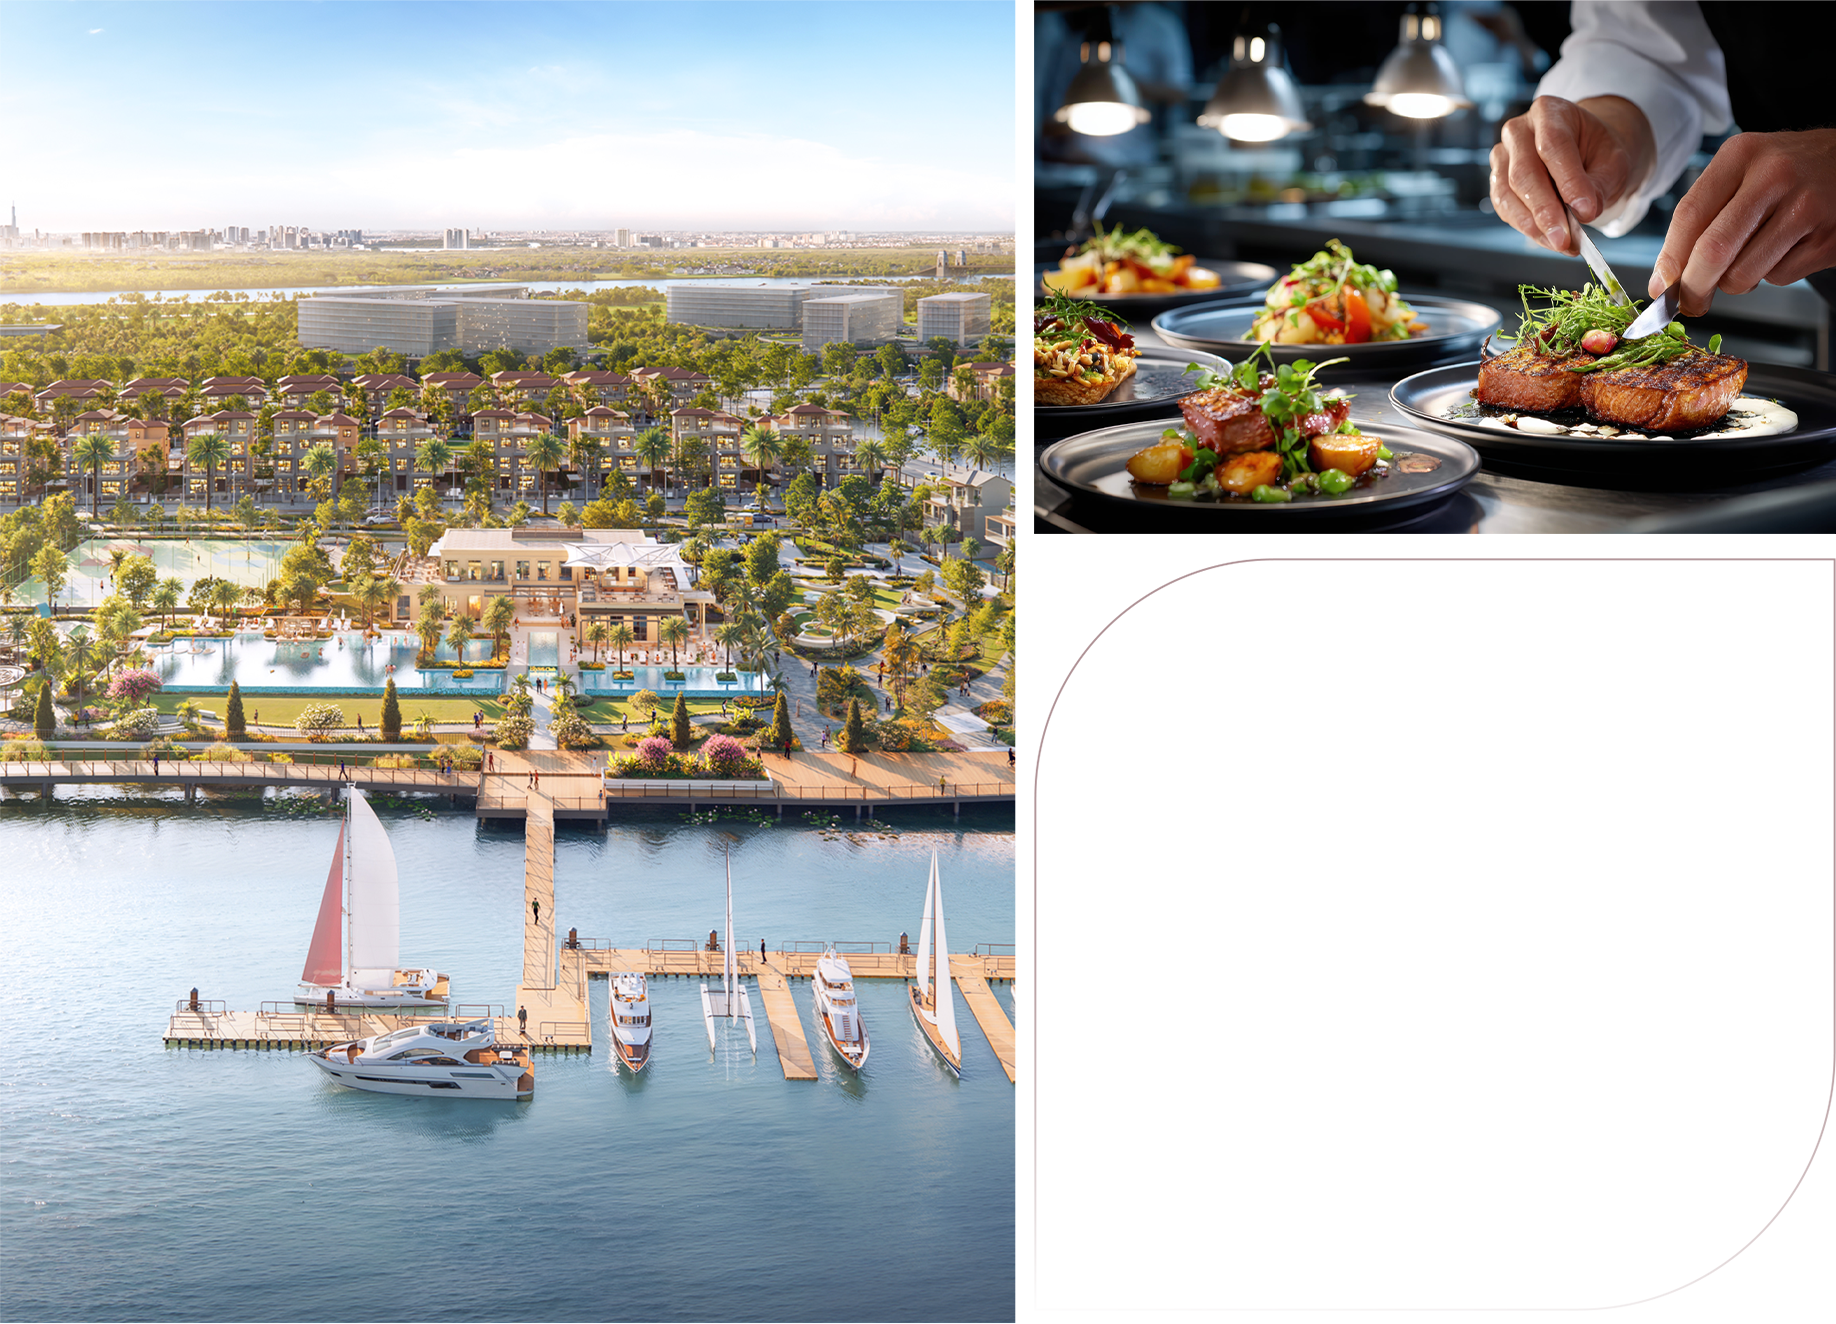
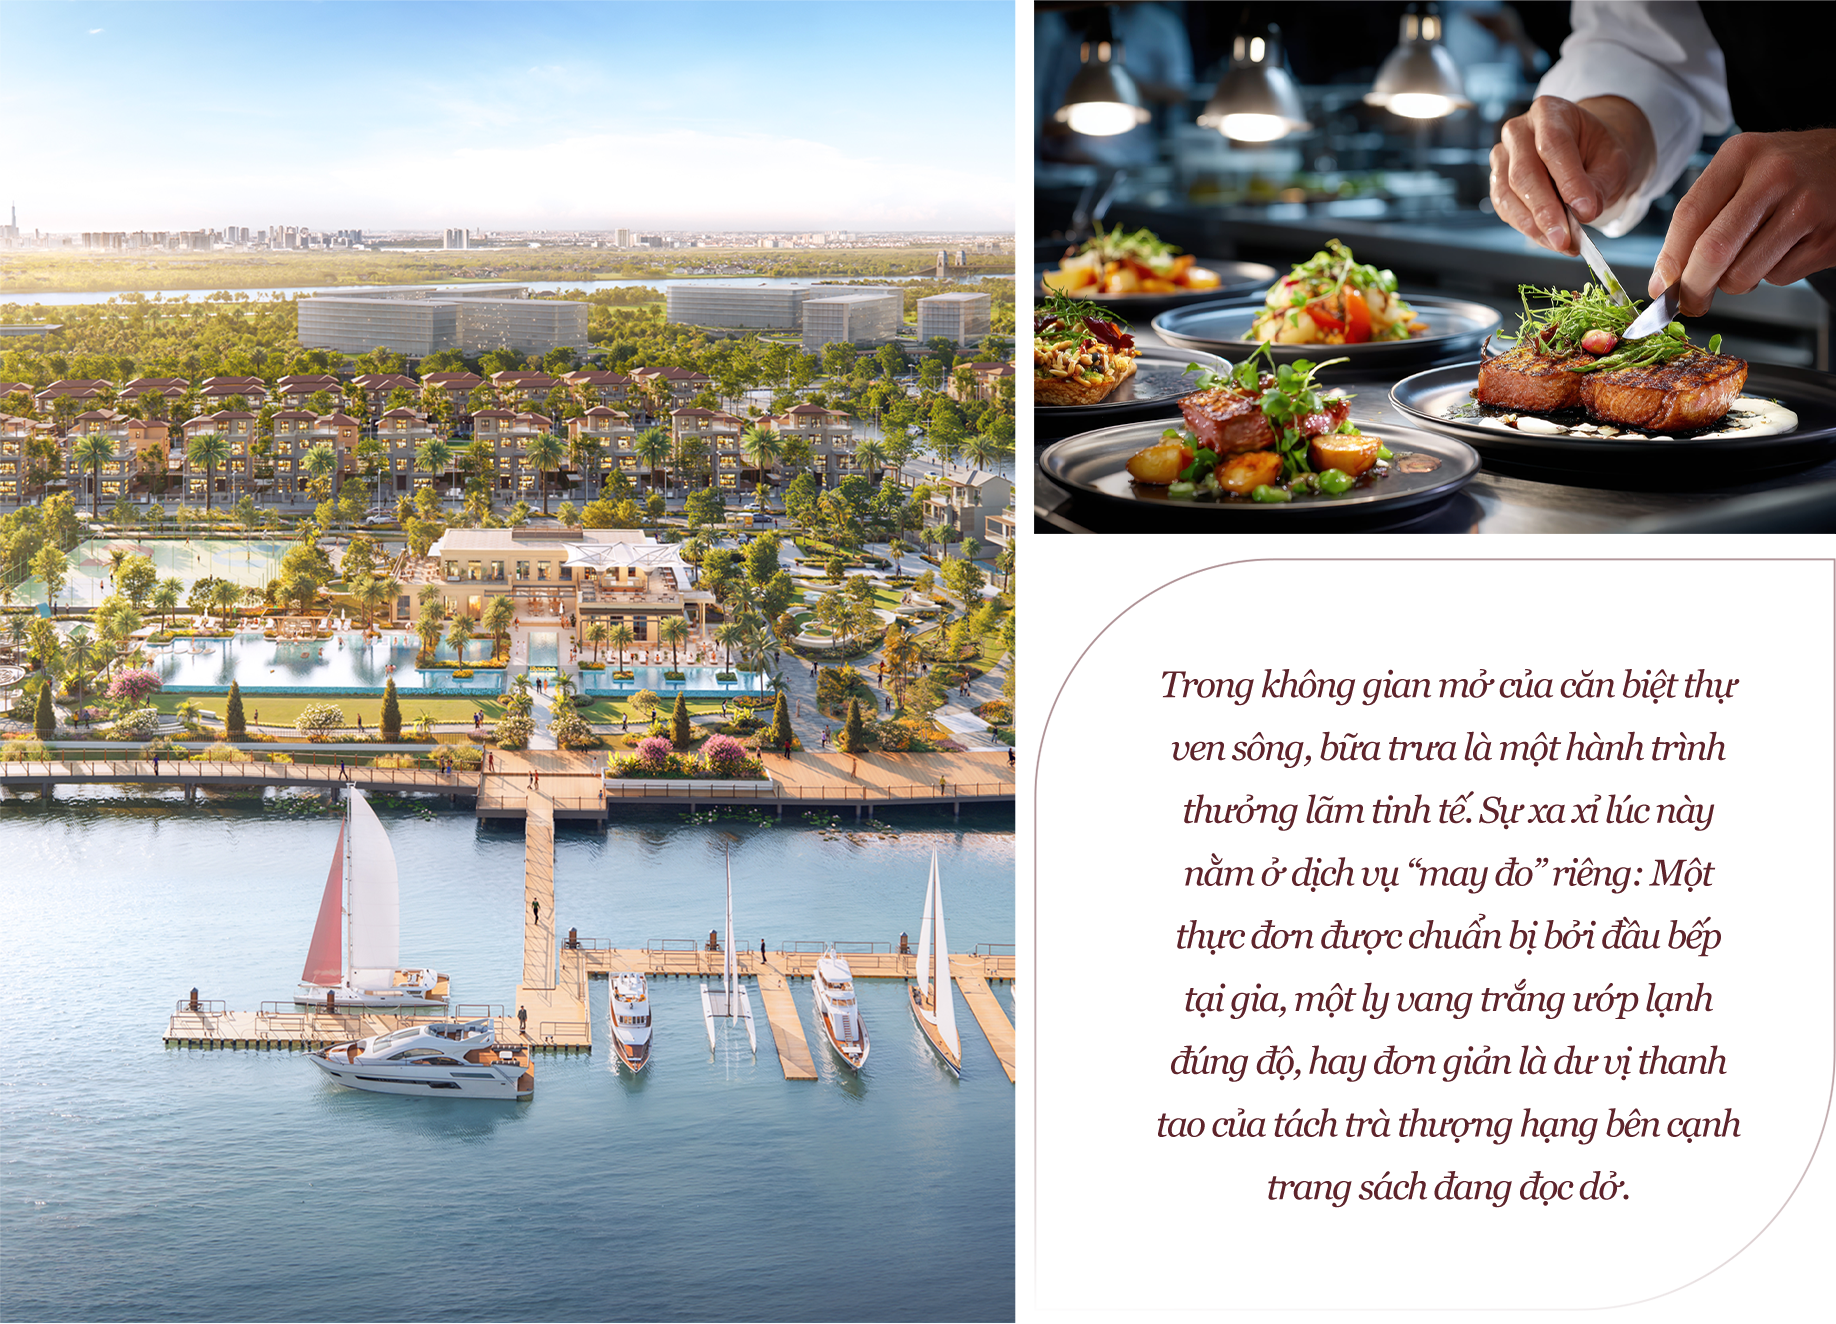
fixed

diff --git a/Elyse/index.html b/Elyse/index.html
@@ -41,7 +41,7 @@
                 <h2 class="section-title heading-serif ">Bình minh</h2>
                 <div class="divider"><span class="divider-line"></span><span class="diamond-icon"></span><span
                         class="divider-line"></span></div>
-                <span class="section-subtitle">Bản giao hưởng của sự tỉnh thức nguyên bản</span>
+                <span class="section-subtitle">Bản giao hưởng<br>của sự tỉnh thức nguyên bản</span>
                 <p>Nếu ngày mới nơi đô thị thường được bắt đầu trong guồng quay vội vã, thì tại Elyse Island, dự án
                     tinh tuyển 45ha trên ốc đảo tự nhiên Đại Phước (Nhơn Trạch, Đồng Nai), ngày mới được đánh thức
                     bằng một nghi thức lộng lẫy của ánh sáng và sự tĩnh lặng.</p>
@@ -57,11 +57,11 @@
 
         <div class="overlap-container reveal">
             <div class="overlap-grid-overlay">
-                <div class="overlap-text overlap-text-1">
+                <!-- <div class="overlap-text overlap-text-1">
                     Trong khoảnh khắc ấy, những chiếc “áo giáp” của danh vọng, những chức danh chủ tịch hay doanh nhân
                     lừng
                     lẫy trên thương trường dường như trở nên chật chội và được nhẹ nhàng cởi bỏ lại phía sau.
-                </div>
+                </div> -->
             </div>
             <div class="overlap-image stagger-1">
                 <img src="Assets/IMAGE/2.png" alt="Bình minh tại Elyse Island">
@@ -93,7 +93,7 @@
                 <h2 class="section-title heading-serif ">Buổi trưa</h2>
                 <div class="divider"><span class="divider-line"></span><span class="diamond-icon"></span><span
                         class="divider-line"></span></div>
-                <span class="section-subtitle">NGHỆ THUẬT CỦA SỰ NHÀN RỖI VÀ NHỮNG CUỘC HỘI NGỘ TRI KỶ</span>
+                <span class="section-subtitle">NGHỆ THUẬT CỦA SỰ NHÀN RỖI<br> VÀ NHỮNG CUỘC HỘI NGỘ TRI KỶ</span>
                 <p>Khi mặt trời lên đến đỉnh điểm của sự rực rỡ, Elyse Island không hề chói chang mà dịu dàng chan
                     hoà dưới những tán cây xanh mướt. Đây là thời khắc hoàn hảo để thực hành triết lý Otium mà người
                     La Mã cổ đại hằng tôn sùng, một khoảng thời gian nhàn rỗi đầy trí tuệ, nơi con người tạm gác lại
@@ -110,12 +110,12 @@
         </section>
         <div class="overlap-container reveal">
             <div class="overlap-grid-overlay">
-                <div class="overlap-text overlap-text-2">
+                <!-- <div class="overlap-text overlap-text-2">
                     Trong không gian mở của căn biệt thự ven sông, bữa trưa là một hành trình thưởng lãm tinh tế. Sự
                     xa xỉ lúc này nằm ở dịch vụ “may đo” riêng: Một thực đơn được chuẩn bị bởi đầu bếp tại gia, một
                     ly vang trắng ướp lạnh đúng độ, hay đơn giản là dư vị thanh tao của tách trà thượng hạng bên
                     cạnh trang sách đang đọc dở.
-                </div>
+                </div> -->
             </div>
             <div class="overlap-image stagger-1">
                 <img src="Assets/IMAGE/3.png" alt="Hoàng hôn huyền ảo">
@@ -144,7 +144,7 @@
                 <h2 class="section-title heading-serif">Hoàng hôn</h2>
                 <div class="divider"><span class="divider-line"></span><span class="diamond-icon"></span><span
                         class="divider-line"></span></div>
-                <span class="section-subtitle">Giây phút vỗ về giúp tìm lại sự cân bằng bản sơ</span>
+                <span class="section-subtitle">Giây phút vỗ về giúp tìm lại<br> sự cân bằng bản sơ</span>
                 <p>Khi ráng chiều bắt đầu buông lớp voan mỏng màu hổ phách xuống mặt sông, không gian chuyển mình
                     dịu dàng ôm lấy hòn đảo. Thế giới ồn ào ngoài kia lùi xa, nhường chỗ cho những cảm xúc riêng tư
                     nhất. Cơ thể bạn, sau một ngày dài, khẽ nhắc nhở về một khoảnh khắc được thả lỏng và vỗ về trọn
@@ -160,12 +160,12 @@
         </section>
         <div class="overlap-container reveal">
             <div class="overlap-grid-overlay">
-                <div class="overlap-text overlap-text-3">
+                <!-- <div class="overlap-text overlap-text-3">
                     Rời khỏi tư gia, bạn tìm về khu vực tổ hợp Onsen & Ganbanyoku độc đáo từ Nhật Bản để làn da chạm vào
                     dòng nước khoáng nóng và lắng nghe chính mình. Đây là lúc câu chuyện của hàng ngàn năm lịch sử được
                     kể
                     lại trên chính cơ thể bạn.
-                </div>
+                </div> -->
             </div>
             <div class="overlap-image stagger-1">
                 <img src="Assets/IMAGE/4.png" alt="Hoàng hôn huyền ảo">
@@ -196,34 +196,35 @@
                 <h2 class="section-title heading-serif">Buổi tối</h2>
                 <div class="divider"><span class="divider-line"></span><span class="diamond-icon"></span><span
                         class="divider-line"></span></div>
-                <span class="section-subtitle">Khi ánh sáng tinh thần soi chiếu những giá trị trường tồn</span>
+                <span class="section-subtitle">Khi ánh sáng tinh thần soi chiếu<br> những giá trị trường tồn</span>
                 <p>Khi đêm xuống, Elyse Island không chọn cách rực rỡ phô trương như phố thị, mà khoác lên mình vẻ
                     đẹp lấp lánh của một dải ngân hà trên sông. Đây là lúc không gian được trả về cho những gì
                     thiêng liêng nhất: Tổ ấm.</p>
+                <p>Đây là khoảnh khắc ba thế hệ tìm thấy sự kết nối sâu sắc. Ông bà thảnh thơi ngồi thưởng trà bên hiên
+                    nhà, ngắm nhìn những đứa cháu vô tư chạy nhảy trên thảm cỏ xanh mướt của công viên nội khu được đảm
+                    bảo an toàn tuyệt đối nhờ hệ thống an ninh đa lớp. Cha mẹ tạm gác lại những thiết bị công nghệ để
+                    cùng nhau chuẩn bị bữa tối, tiếng ly pha lê chạm nhẹ hòa cùng tiếng cười nói giòn tan.</p>
             </div>
 
         </section>
         <div class="overlap-container reveal">
             <div class="overlap-grid-overlay">
-                <div class="overlap-text overlap-text-4">
+                <!-- <div class="overlap-text overlap-text-4">
                     Dưới bầu trời quang đãng, nơi những vì sao không còn bị ánh đèn đô thị che khuất, những căn biệt thự
                     ven
                     sông bừng sáng ấm áp. Tại khoảng sân vườn rộng rãi nối liền với công viên bờ sông, mùi hương nồng
                     nàn
                     của những bữa tiệc BBQ ngoài trời quyện vào gió mát, đánh thức khứu giác về một sự sum vầy viên mãn.
-                </div>
+                </div> -->
             </div>
-            <div class="overlap-image stagger-1">
+            <div class="overlap-image stagger-1 night-img">
                 <img src="Assets/IMAGE/6.png" alt="Buổi tối lung linh">
             </div>
         </div>
 
         <section class="container reveal">
             <div class="text-block night">
-                <p>Đây là khoảnh khắc ba thế hệ tìm thấy sự kết nối sâu sắc. Ông bà thảnh thơi ngồi thưởng trà bên hiên
-                    nhà, ngắm nhìn những đứa cháu vô tư chạy nhảy trên thảm cỏ xanh mướt của công viên nội khu được đảm
-                    bảo an toàn tuyệt đối nhờ hệ thống an ninh đa lớp. Cha mẹ tạm gác lại những thiết bị công nghệ để
-                    cùng nhau chuẩn bị bữa tối, tiếng ly pha lê chạm nhẹ hòa cùng tiếng cười nói giòn tan.</p>
+
 
                 <p>Không cần đi đâu xa, ngay tại bến du thuyền rực sáng phía xa, những tiện ích đẳng cấp vẫn hiện hữu
                     như một phông nền hoàn hảo cho cuộc sống tiện nghi. Nhưng trên hết, buổi tối tại Elyse Island là lúc

diff --git a/Elyse/style.css b/Elyse/style.css
@@ -76,7 +76,7 @@
   --fs-h3: clamp(1.3rem, 4vw, 4rem);
   --fs-body: clamp(1rem, 1.25vw + 0.4rem, 1.15rem);
   --fs-caption: 1rem;
-  --fs-intro: clamp(1rem, 1.25vw + 0.4rem, 1.15rem);
+  --fs-intro: clamp(1.15rem, 1.4vw + 0.4rem, 1.3rem);
 
   --container-width-hero: clamp(10%, 85%, 950px);
   --container-width: clamp(10%, 80%, 870px);
@@ -116,31 +116,24 @@ body {
 .hero {
   width: 100vw;
   position: relative;
-  overflow: hidden;
-  background-color: var(--bg-grad-start);
+  /* background-color: var(--bg-grad-start); */
+  height: auto;
 }
 
 .hero img {
   width: 100%;
-  object-fit: contain;
+  height: 100%;
+  display: block;
+  object-fit: cover;
+  object-position: top;
 }
 
-.hero::after {
-  content: "";
-  position: absolute;
-  bottom: 0;
-  left: 0;
-  width: 100%;
-  height: 25%;
-  background: linear-gradient(to bottom,
-      rgba(175, 227, 248, 0) 0%,
-      rgba(175, 227, 248, 0.9) 100%);
-  z-index: 2;
-}
 
 .hero-content {
   position: relative;
+  padding-bottom: 2rem;
 }
+
 
 h1,
 h2,
@@ -191,6 +184,7 @@ p {
   font-size: var(--fs-h1);
   font-weight: 500;
   margin-bottom: -1.5rem;
+  word-spacing: -0.15em;
 
 }
 
@@ -333,13 +327,6 @@ section {
   position: relative;
 }
 
-.hero {
-  height: 100vh;
-  width: 100vw;
-  position: relative;
-  overflow: hidden;
-}
-
 .body-text {
   max-width: var(--container-width);
   margin: 0 auto;
@@ -377,60 +364,10 @@ section {
   pointer-events: none;
 }
 
-.overlap-text {
-  z-index: 2;
-  font-family: var(--font-serif);
-  font-style: italic;
 
-  font-size: clamp(6px, 2.2vw, 2.4rem);
-  color: #333;
-  line-height: 1.5;
-  letter-spacing: normal;
-  pointer-events: none;
-  text-align: center;
-  display: flex;
-  flex-direction: column;
-  justify-content: center;
-
-  opacity: 0;
-  transition: opacity var(--transition-med);
-}
-
-.reveal.active .overlap-text {
-  opacity: 1;
-  transition-delay: 0.8s;
-}
-
-.overlap-text-1 {
-  grid-column: 8 / 13;
-  grid-row: 1 / 5;
-  padding-right: 2vw;
-}
-
-.overlap-text-2 {
-  grid-column: 8 / 13;
-  grid-row: 7 / 12;
-  padding-right: 2.3vw;
-  padding-top: 1vw;
-  padding-bottom: 1.5vw;
-  color: var(--color-midday);
-}
-
-.overlap-text-3 {
-  grid-column: 6 / 11;
-  grid-row: 9/13;
-  text-align: center;
-  color: var(--color-night);
-  padding: 0.5vw 1vw 1.5vw;
-  font-size: clamp(6px, 2vw, 2.4rem);
-}
-
-.overlap-text-4 {
-  grid-column: 8 / 13;
-  grid-row: 4 / 7;
-  color: var(--color-night);
-  padding: 5vw;
-  font-size: clamp(6px, 2vw, 2.4rem);
+.night-img {
+  width: 90%;
+  margin: 0 auto;
 }
 
 .text-block {
@@ -457,6 +394,10 @@ section {
 
   .hero-content .body-text {
     padding-top: 1rem;
+  }
+
+  .hero-content {
+    padding-bottom: 0;
   }
 
   .container {

diff --git a/Elyse/main.js b/Elyse/main.js
@@ -27,17 +27,17 @@ function initScrollReveal() {
   });
 }
 
-function initParallax() {
-  const heroImg = document.querySelector('.hero-img');
+// function initParallax() {
+//   const heroImg = document.querySelector('.hero-img');
   
-  window.addEventListener('scroll', () => {
-    const scrollPos = window.pageYOffset;
-    if (heroImg) {
+//   window.addEventListener('scroll', () => {
+//     const scrollPos = window.pageYOffset;
+//     if (heroImg) {
      
-      heroImg.style.transform = `translateY(${scrollPos * 0.3}px)`;
-    }
-  });
-}
+//       heroImg.style.transform = `translateY(${scrollPos * 0.3}px)`;
+//     }
+//   });
+// }
 
 document.querySelectorAll('a[href^="#"]').forEach(anchor => {
     anchor.addEventListener('click', function (e) {
